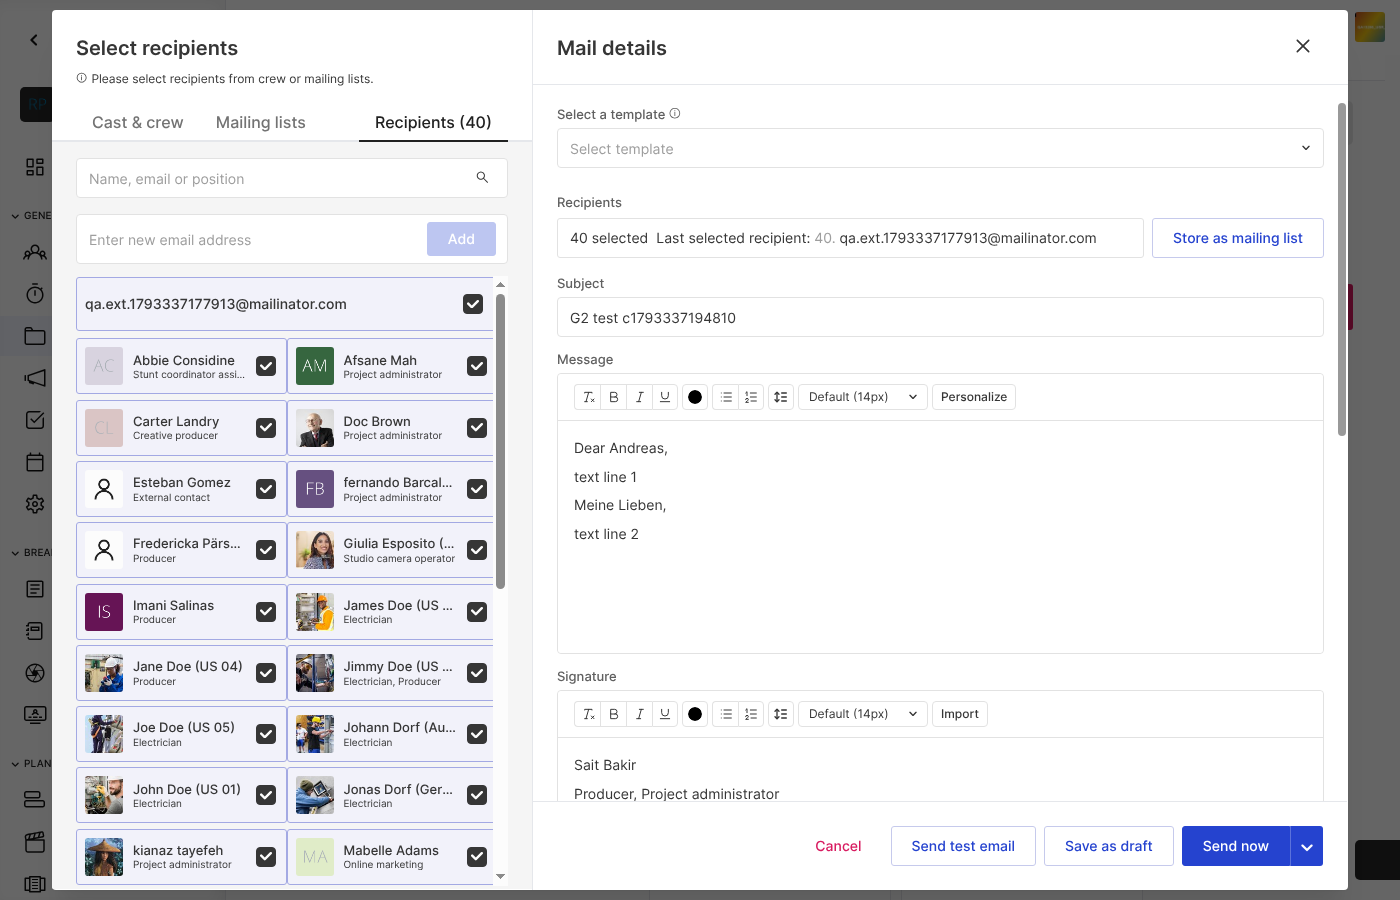
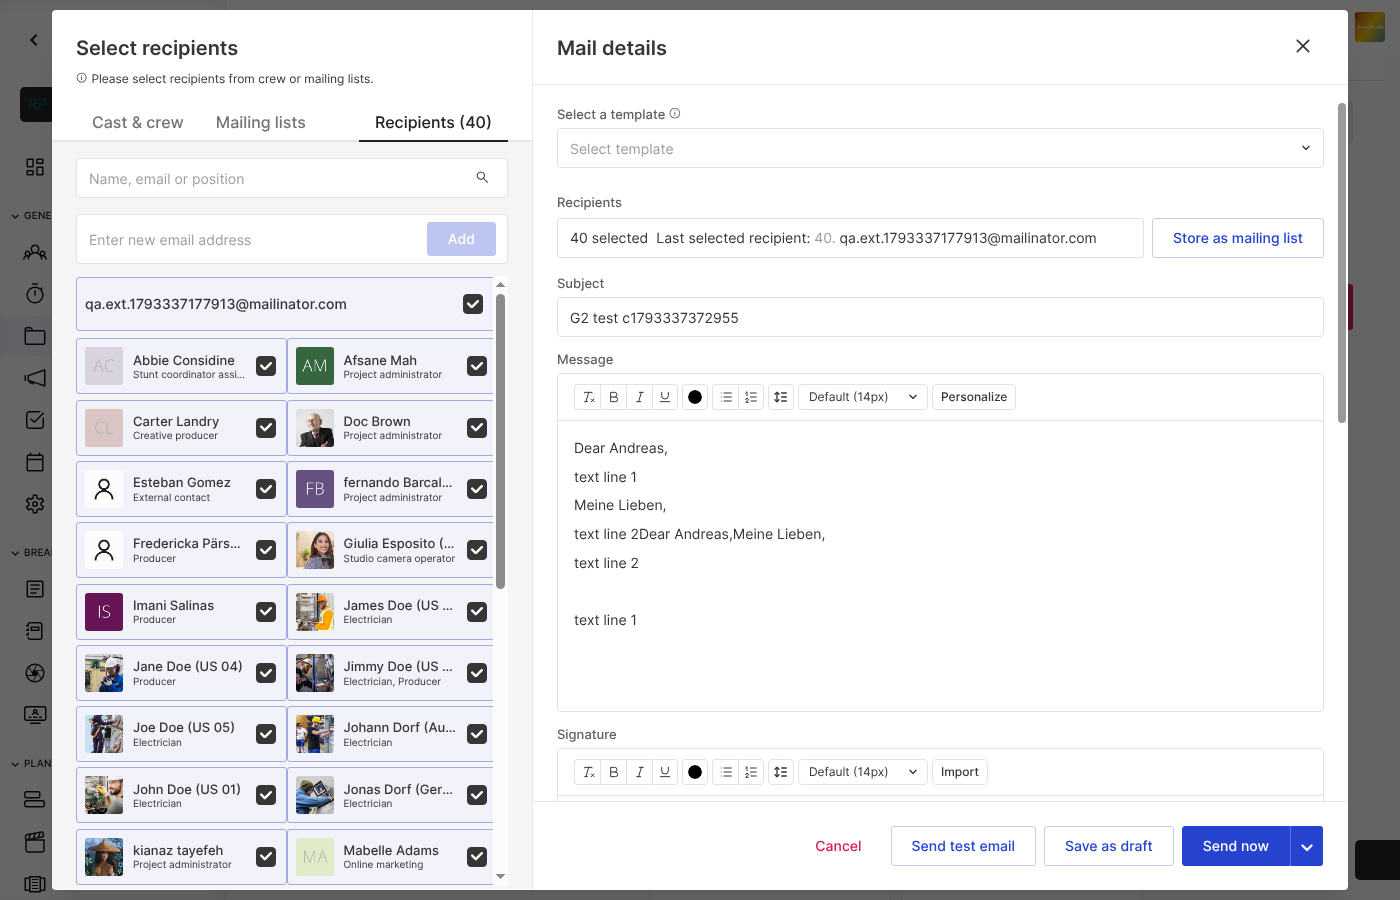
run-20261030T0500Z: J1 NOT REPRODUCED (build lqwjLRsP); rapor/state/ledger/findings
Claude-Session: https://claude.ai/code/session_01LawWSy958xzaiZ1QRWvQpL

diff --git a/investigation/evidence/run-20261030T0500Z/cyc.js b/investigation/evidence/run-20261030T0500Z/cyc.js
@@ -1,0 +1,51 @@
+const {conn,log,EV}=require('./lib');
+const http=require('http');
+const req=(method,path)=>new Promise((res,rej)=>{const r=http.request({host:'127.0.0.1',port:9222,path,method},x=>{let d='';x.on('data',c=>d+=c);x.on('end',()=>res(d))});r.on('error',rej);r.end()});
+const sleep=ms=>new Promise(r=>setTimeout(r,ms));
+const N=+process.argv[2]||10, HID=+process.argv[3]||100;
+(async()=>{
+const t0=Date.now();
+log(`CYCLES start N=${N} hidden=${HID}s`);
+for(let i=1;i<=N;i++){
+ let {b,p}=await conn();
+ const id=(await req('GET','/json')).match(/"id": "([^"]+)"[^]*?"url": "https:\/\/scotty/)?.[1];
+ const tabs=JSON.parse(await req('GET','/json')).filter(t=>t.type==='page'&&/scotty/.test(t.url));
+ const tid=tabs[0].id;
+ log(`c${i} PENDING type (age ${Math.round((Date.now()-t0)/60000)}m)`);
+ const t1=Date.now();
+ const pr=await Promise.race([p.evaluate(()=>1+1),sleep(8000).then(()=>'TIMEOUT')]);
+ log(`c${i} probe pre=${Date.now()-t1}ms res=${pr}`);
+ if(pr==='TIMEOUT'){log('CANDIDATE_FREEZE pre-type');await p.screenshot({path:EV+`/CAND-c${i}.png`,timeout:5000}).catch(()=>{});process.exit(2);}
+ if(i===1){await p.getByPlaceholder('Subject').first().fill('G2 test c'+Date.now());}
+ await p.mouse.click(940,540);
+ await p.keyboard.type(i%2?'Dear Andreas,':'Meine Lieben,',{delay:40});
+ log(`c${i} Enter#1 PENDING`);
+ await p.keyboard.press('Enter');
+ await p.keyboard.type('text line '+i,{delay:30});
+ await p.keyboard.press('Enter');
+ const t2=Date.now();
+ const pr2=await Promise.race([p.evaluate(()=>document.querySelectorAll('*').length),sleep(10000).then(()=>'TIMEOUT')]);
+ log(`c${i} Enter done; probe=${Date.now()-t2}ms dom=${pr2}`);
+ if(pr2==='TIMEOUT'){log('CANDIDATE_FREEZE after Enter');await p.screenshot({path:EV+`/CAND-c${i}.png`,timeout:5000}).catch(()=>{});process.exit(2);}
+ const cnt=await p.getByText(/Recipients \(\d+\)|selected/).first().innerText().catch(()=>'?');
+ const heap=await p.evaluate(()=>performance.memory&&Math.round(performance.memory.usedJSHeapSize/1e6)).catch(()=>null);
+ log(`c${i} recips='${cnt.replace(/\n/g,' ')}' heapMB=${heap}`);
+ await p.screenshot({path:EV+`/g2-c${i}.png`});
+ await b.close();   // disconnect Playwright
+ // real hidden
+ log(`c${i} PENDING hidden ${HID}s`);
+ await req('PUT','/json/new?about:blank');
+ await sleep(HID*1000);
+ await req('GET','/json/activate/'+tid);
+ await sleep(1500);
+ ({b,p}=await conn());
+ const pg=b.contexts()[0].pages().find(x=>/scotty/.test(x.url()));
+ const vis=await pg.evaluate(()=>JSON.stringify(window.__vis.slice(-2)+'|'+document.visibilityState));
+ log(`c${i} DONE hidden; vis=${vis}`);
+ // close extra blank tab(s)
+ for(const t of JSON.parse(await req('GET','/json')).filter(t=>t.type==='page'&&t.url==='about:blank')) await req('GET','/json/close/'+t.id);
+ await b.close();
+ await sleep(i%3===0?60000:5000);
+}
+log('CYCLES complete elapsedMin='+Math.round((Date.now()-t0)/60000));
+})().catch(e=>{log('DRIVER_ERR '+e.message.slice(0,200));process.exit(1)});

diff --git a/investigation/evidence/run-20261030T0500Z/s7.js b/investigation/evidence/run-20261030T0500Z/s7.js
@@ -1,0 +1,14 @@
+const {conn,log,EV}=require('./lib');
+(async()=>{const {b,p}=await conn();
+log('PENDING select all + external');
+await p.getByText('Select all',{exact:true}).first().click();await p.waitForTimeout(1500);
+const cnt=async()=>await p.getByText(/^Recipients \(\d+\)/).first().innerText();
+log('after select all: '+await cnt());
+await p.getByText(/^Recipients \(\d+\)/).first().click();await p.waitForTimeout(800);
+await p.getByText('Add new e-mail address').first().click();await p.waitForTimeout(800);
+const inp=p.getByPlaceholder(/Enter new email/i).first();
+await inp.click();await inp.fill('qa.ext.'+Date.now()+'@mailinator.com');
+await p.getByRole('button',{name:'Add',exact:true}).first().click();await p.waitForTimeout(1000);
+log('after external: '+await cnt());
+await p.screenshot({path:EV+'/08-ext.png'});
+await b.close();})().catch(e=>{console.log('ERR',e.message.slice(0,200))});

diff --git a/investigation/evidence/run-20261030T0500Z/s1.js b/investigation/evidence/run-20261030T0500Z/s1.js
@@ -1,0 +1,15 @@
+const {conn,log,EV}=require('./lib');
+(async()=>{const {b,p}=await conn();
+await p.setViewportSize({width:1400,height:900});
+log('PENDING login');
+await p.goto('https://scotty.yamdu.com/',{waitUntil:'domcontentloaded'});
+await p.waitForSelector('#UserName',{timeout:30000});
+await p.fill('#UserName','sait@yamdu.com');await p.keyboard.press('Enter');
+await p.waitForSelector('#Password',{timeout:30000});
+await p.fill('#Password',process.env.PW_FROM_ENV);await p.keyboard.press('Enter');
+await p.waitForTimeout(8000);
+await p.goto('https://scotty.yamdu.com/#5551/announcements:files:filedistribution');
+await p.waitForTimeout(8000);
+log('DONE login url='+p.url()+' title='+await p.title());
+await p.screenshot({path:EV+'/01-dist.png'});
+await b.close();})();

diff --git a/investigation/evidence/run-20261030T0500Z/s5.js b/investigation/evidence/run-20261030T0500Z/s5.js
@@ -1,0 +1,9 @@
+const {conn,log,EV}=require('./lib');
+(async()=>{const {b,p}=await conn();
+log('PENDING recipients');
+await p.evaluate(()=>{window.__vis=[];document.addEventListener('visibilitychange',()=>window.__vis.push([Date.now(),document.visibilityState]));});
+for(const y of [244,441,576,711]){await p.mouse.click(471,y);await p.waitForTimeout(600);}
+await p.getByText(/^Recipients \(\d+\)/).first().click();await p.waitForTimeout(1200);
+log('counter after depts: '+await p.getByText(/^Recipients \(\d+\)/).first().innerText());
+await p.screenshot({path:EV+'/06-recips.png'});
+await b.close();})();

diff --git a/investigation/evidence/run-20261030T0500Z/s4.js b/investigation/evidence/run-20261030T0500Z/s4.js
@@ -1,0 +1,11 @@
+const {conn,log,EV}=require('./lib');
+(async()=>{const {b,p}=await conn();
+log('PENDING select 3 files + share');
+for(const [x,y] of [[770,375],[1020,375],[770,625]]){await p.mouse.click(x,y);await p.waitForTimeout(500);}
+await p.screenshot({path:EV+'/04-picked.png'});
+const sf=p.getByText('Share files').first();
+log('sharefiles count='+await p.getByText('Share files').count());
+await sf.click(); await p.waitForTimeout(4000);
+await p.screenshot({path:EV+'/05-modal.png'});
+log('DONE modal opened');
+await b.close();})();

diff --git a/investigation/evidence/run-20261030T0500Z/lib.js b/investigation/evidence/run-20261030T0500Z/lib.js
@@ -1,0 +1,8 @@
+const {chromium}=require('playwright');
+const fs=require('fs');
+const EV='/home/user/yamdu-distribution-freeze-investigation/investigation/evidence/run-20261030T0500Z';
+fs.mkdirSync(EV,{recursive:true});
+const LOG=EV+'/steps.log';
+exports.log=m=>{fs.appendFileSync(LOG,new Date().toISOString()+' '+m+'\n');console.log(m)};
+exports.EV=EV;
+exports.conn=async()=>{const b=await chromium.connectOverCDP('http://localhost:9222');const c=b.contexts()[0];const p=c.pages()[0]||await c.newPage();return {b,p}};

diff --git a/investigation/evidence/run-20261030T0500Z/s3.js b/investigation/evidence/run-20261030T0500Z/s3.js
@@ -1,0 +1,9 @@
+const {conn,log,EV}=require('./lib');
+(async()=>{const {b,p}=await conn();
+log('PENDING open room');
+await p.mouse.click(795,590); await p.waitForTimeout(3500);
+await p.mouse.click(385,400); await p.waitForTimeout(3500);
+await p.getByText('Select multiple').first().click(); await p.waitForTimeout(1500);
+await p.screenshot({path:EV+'/03-sel.png'});
+log('DONE selmode url='+p.url());
+await b.close();})();

diff --git a/investigation/runs/run-20261030T0500Z.md b/investigation/runs/run-20261030T0500Z.md
@@ -1,0 +1,15 @@
+# Run raporu: run-20261030T0500Z (Türkçe)
+
+Önceki run: run-20261029T0510Z (dal claude/funny-darwin-lmcpyd, kaynak commit e89cf7c). Tüm claude/* dalları tarandı; en güncel zincir lmcpyd (8or3a1, ywvbbe, h6te7z atası). Dallanmış hh83ik, d83zc1, apuhst, m48ee3 daha önce ledger'a aktarılmıştı. Okuma/yazma/push doğrulandı (bu dal: claude/funny-darwin-d8ujxy).
+
+## Ortam
+Linux 6.18 x86_64 bulut; Chromium 153.0.8010.12 (Chrome DEĞİL), headed, Xvfb :99 + openbox (bu run'da apt ile kuruldu), CDP. Giriş ve proje 5551 (ROUTINE PROJECT) doğrulandı. Build: bundles/js?v=lqwjLRsPUFaqVv15C_kaXXci2dQlB0gVNYJ-eggI (önceki CFWXRv9'dan DEĞİŞTİ). Son tam yükleme ~05:08Z; deney boyunca reload yok. Firefox/Safari/macOS/Windows/native Chrome: NOT TESTED.
+
+## Deney J1 — Yeni build lqwjLRsP üzerinde Files > Share files, 40 alıcı, Enter döngüleri (F1/H1 regresyonu)
+Değişen değişken (belgelenmiş malzeme değişikliği): build CFWXRv9 -> lqwjLRsP. Orijinal ID: H1/G1b.
+Akış (aynı sekme): Files & Documents > belge > Select multiple > 3 dosya > Share files > Cast & crew > Select all (39) + harici e-posta = Recipients (40) doğrulandı > konu > 'Dear Andreas,' / 'Meine Lieben,' + metin + Enter, 10 döngü (2 + 8; ilk grup elle durduruldu) arası ~90-100 sn bekleme, toplam ~25 dk yaşlı oturum.
+Sonuç: NOT REPRODUCED IN THIS EXPERIMENT. 10 Enter döngüsü, probe <=26 ms (Enter sonrası <=13 ms), heap 65-70 MB, DOM ~3500, CANDIDATE/crash yok, modal 40 alıcı ile bütünüyle sağlam (10-state.png).
+Sınırlar / sürücü kusuru: Gerçek HIDDEN faz DOĞRULANAMADI — visibilitychange hiç tetiklenmedi (/json/new, /json/activate, Target.createTarget denendi; sayfa 'visible' kaldı). Bu yüzden bekleme fazları "görünür bekleme"dir; hidden bu run'da NOT TESTED. Taslak kaydet/yeniden aç yapılmadı (NOT TESTED). Log'daki 'recips' alanı yanlış öğeyi okudu ('3 items selected'); alıcı sayısı yalnız setup'ta ve 10-state.png'de doğrulandı. Hiç mesaj gönderilmedi; taslak oluşmadı. Gözlem: Sent listesinde 29/10 08:52 'ALICI' kaydı var (bu run'a ait değil).
+
+## Sonraki ayırt edici test
+Hidden fazın neden tetiklenmediğini çözmek (Playwright persistent context pencere/occlusion), ardından >2 sa yaşlı oturum; native Chrome/Firefox/Safari, Windows/macOS ortamı gerekli. Cloud'da başka yeni çalıştırılabilir hipotez yok.

diff --git a/investigation/findings.md b/investigation/findings.md
@@ -54,3 +54,6 @@ Yeni build BdtIBBx. G1: Share files modalı + openbox ile doğrulanmış GERÇEK
 
 ## 2026-10-29 (run-20261029T0510Z)
 Yeni build CFWXRv9 (BdtIBBx'ten degisti). H1: Files > Share files + 8 dogrulanmis gercek hidden faz + Enter + taslak kaydet/yeniden ac; H2: 17 alici dogrulamali 4 hidden dongu: NOT REPRODUCED IN THIS EXPERIMENT. 56 probe <=22 ms, heap <=98 MB. Kok neden bilinmiyor; pre-fix REPRODUCED kaydi gecerli. Native tarayici/OS ve >2 sa NOT TESTED.
+
+## 2026-10-30 (run-20261030T0500Z)
+Yeni build lqwjLRsP (CFWXRv9'dan degisti). J1: Files > Share files, Select all + harici e-posta (40 alici dogrulandi), 'Dear Andreas,'/'Meine Lieben,' + Enter, 10 dongu, ~25 dk ayni sekme: NOT REPRODUCED IN THIS EXPERIMENT (probe <=26 ms, heap <=70 MB, 0 crash). Gercek hidden dogrulanamadi (NOT TESTED), taslak yeniden acma yapilmadi. Kok neden bilinmiyor; pre-fix REPRODUCED kaydi gecerli.
